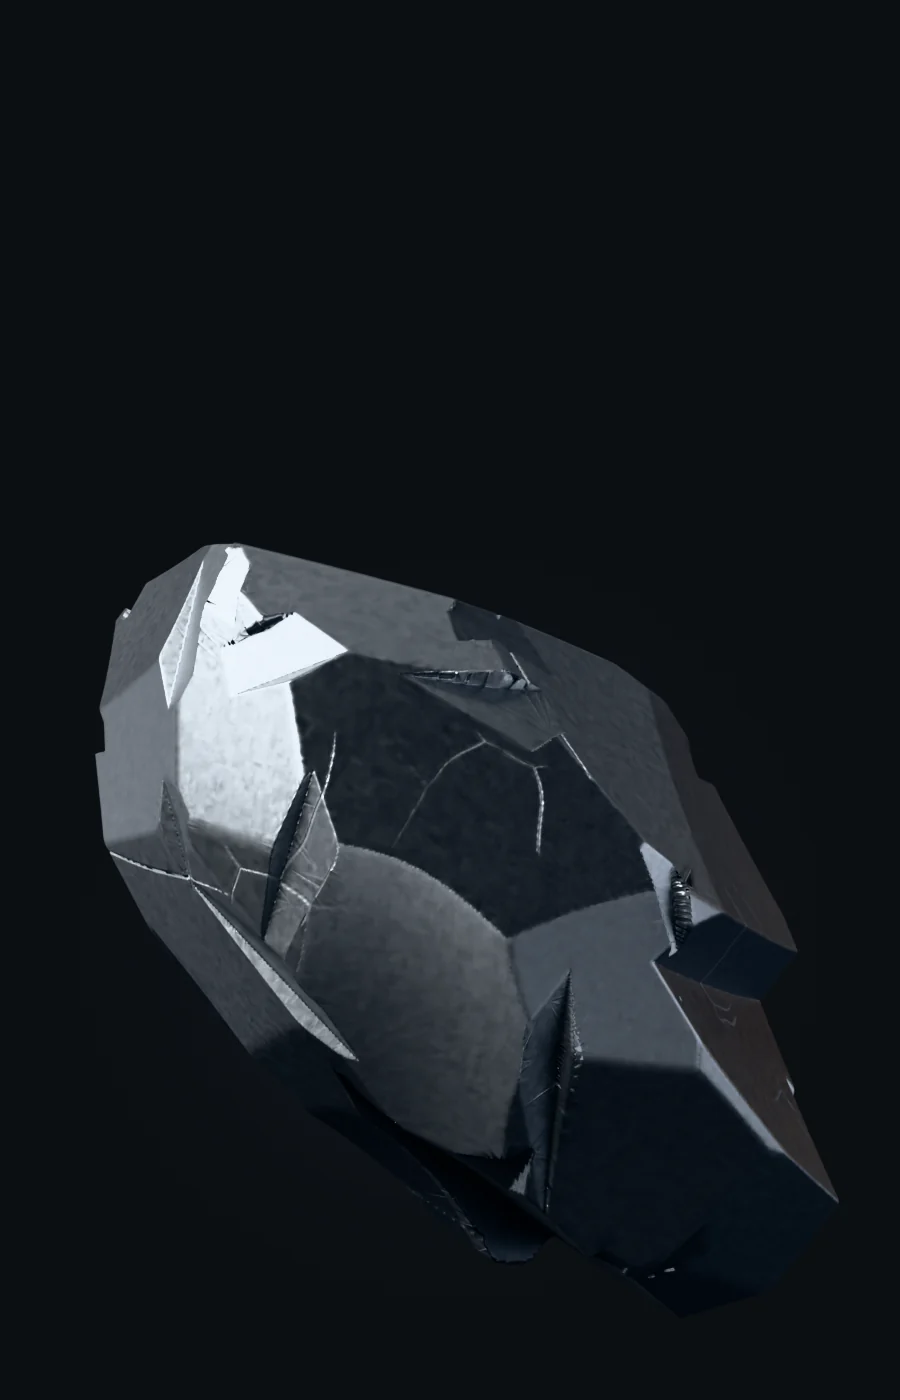
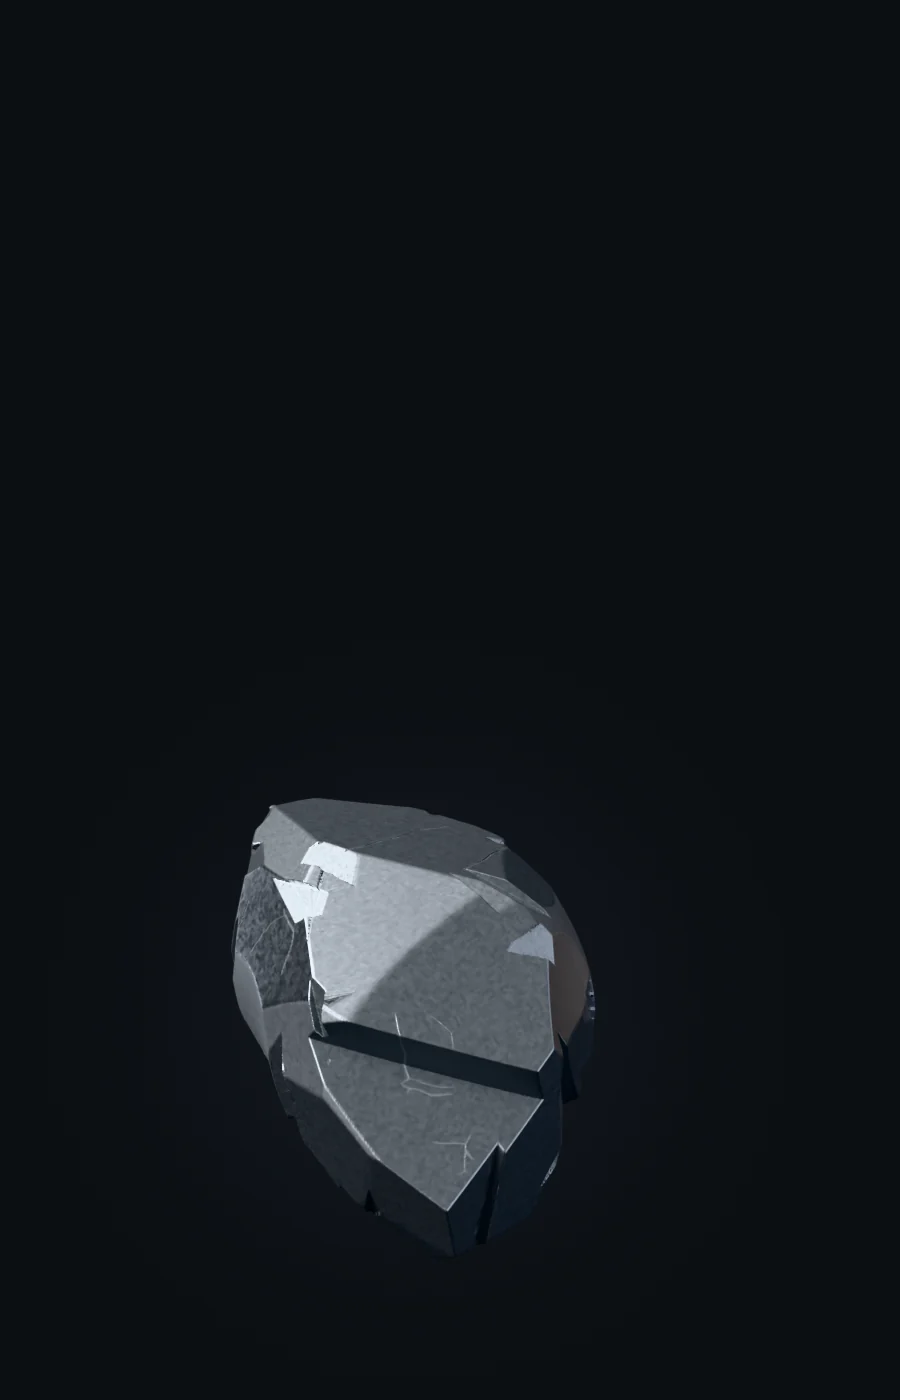
Hero pose 120 deg: broad fracture face towards the camera, reframe and re-render posters
The 180 deg pose showed the elongated end and the thin flake-scar walls.
Desktop camera pulled back so the chunk clears the element card; mobile
framing moved below the H1 and the call to action. The entry face keeps
its A2 light frame (entryFace.lightRotationY): the studio turns into it
during the approach, so the close-up no longer faces the key softbox
head-on. Material heading gets a soft graphite halo over the entry face.

Changed region(s): [[0.0933, 0.3686, 0.9333, 0.8907]]

diff --git a/src/scripts/scenes/hero.js b/src/scripts/scenes/hero.js
@@ -75,6 +75,7 @@ export async function createHero({ renderer, assets, textures, anisotropy, signa
   renderer.toneMappingExposure = config.exposure ?? 1;
 
   const rest = config.chunkRotationY ?? 0;
+  const lightYaw = config.entryFace?.lightRotationY ?? rest;
   const camera = new PerspectiveCamera(config.fov, 1, .01, 40);
   let hero = heroPose(config, 'desktop', 1.6);
   await renderer.compileAsync(scene, camera);
@@ -118,9 +119,10 @@ export async function createHero({ renderer, assets, textures, anisotropy, signa
       const s = entryPhases(state.hero).camera;
       const pose = cameraPose({ s, theta, hero, face, parallax: state.parallax });
       pivot.rotation.y = theta;
-      // During the final approach the studio turns with the chunk, so the close-up is lit the
-      // same way whatever angle the ambient turn had reached (the turn is at rest by then).
-      scene.environmentRotation.y = wrap(theta - rest) * smoothstep(.35, .85, s);
+      // During the final approach the studio turns into the entry face's own light frame
+      // (entryFace.lightRotationY), so the close-up is lit the same way whatever the hero pose and
+      // whatever angle the ambient turn had reached (the turn is at rest by then).
+      scene.environmentRotation.y = wrap(theta - lightYaw) * smoothstep(.35, .85, s);
       camera.position.set(...pose.position);
       camera.lookAt(...pose.target);
       renderer.render(scene, camera);
@@ -138,13 +140,14 @@ const wrap = a => a - 2 * Math.PI * Math.round(a / (2 * Math.PI));
 
 /**
  * End the approach slightly oblique: halfway between the face normal and the mirror direction
- * of the key softbox (in the chunk's rest frame), so the fracture face carries a soft specular
+ * of the key softbox (in the entry face's light frame), so the fracture face carries a soft specular
  * gradient instead of reflecting the dark studio behind the camera.
  */
 function approachDirection(normal) {
   const key = (config.lights ?? []).find(l => l.name === 'key') ?? (config.lights ?? []).find(l => l.type === 'key');
   if (!key) return normal;
-  const n = normalize(normal), l = normalize(rotateY(key.position, -(config.chunkRotationY ?? 0)));
+  const yaw = config.entryFace?.lightRotationY ?? config.chunkRotationY ?? 0;
+  const n = normalize(normal), l = normalize(rotateY(key.position, -yaw));
   const d = n[0] * l[0] + n[1] * l[1] + n[2] * l[2];
   if (d <= .05) return normal;
   const mirror = n.map((v, i) => 2 * d * v - l[i]);

diff --git a/src/styles.css b/src/styles.css
@@ -28,15 +28,18 @@ html[data-renderer=webgl] #scene-canvas{opacity:var(--dip,1)}
    cropped like the poster's object-fit:cover, so the handover does not shift the background. */
 .hero-glow{position:fixed;inset:0;z-index:0;pointer-events:none;container-type:size;overflow:hidden;opacity:var(--hero-copy,0)}
 .hero-glow:before{content:"";position:absolute;left:50%;top:50%;translate:-50% -50%;width:max(100cqw,160cqh);height:max(100cqh,62.5cqw);
-  background:radial-gradient(circle max(36cqw,57.6cqh) at 68.5% 50%,#5a789629 0,#5a78961a 20%,#5a78960f 40%,#5a789607 60%,#5a789602 80%,#5a789600 100%)}
+  background:radial-gradient(circle max(36cqw,57.6cqh) at 65% 52%,#5a789629 0,#5a78961a 20%,#5a78960f 40%,#5a789607 60%,#5a789602 80%,#5a789600 100%)}
 @media(max-width:759px){.hero-glow:before{width:max(100cqw,64.2857cqh);height:max(100cqh,155.556cqw);
-  background:radial-gradient(circle max(50cqw,32.143cqh) at 50% 66%,#5a789629 0,#5a78961a 20%,#5a78960f 40%,#5a789607 60%,#5a789602 80%,#5a789600 100%)}}
+  background:radial-gradient(circle max(50cqw,32.143cqh) at 46% 72%,#5a789629 0,#5a78961a 20%,#5a78960f 40%,#5a789607 60%,#5a789602 80%,#5a789600 100%)}}
 /* Hero poster: first paint, and the fallback for calm, no-JS, asset errors and context loss.
    It sits above the canvas and fades once the renderer has drawn the same frame underneath. */
 .hero-poster{position:absolute;inset:0;z-index:1;pointer-events:none}
 .hero-poster img{width:100%;height:100%;object-fit:cover}
 html[data-hero=live] .hero-poster{opacity:0;visibility:hidden;transition:opacity .3s linear,visibility 0s .3s}
 html[data-hero=live] .hero .stage>:not(.hero-poster){opacity:var(--hero-copy,1)}
+/* The material heading scrolls in over the bright entry face (hero progress ~.5-.84): a soft
+   graphite halo keeps it legible there; it is invisible on the dark stage. */
+html[data-renderer=webgl][data-chapter="0"] #materia .chapter-copy{text-shadow:0 1px 22px #0b0e12cc,0 0 3px #0b0e1299}
 
 .header{position:fixed;z-index:20;inset:0 0 auto;display:flex;justify-content:space-between;align-items:center;height:100px;padding:0 var(--pad);background:linear-gradient(var(--bg),#0b0e12c9 40%,transparent);gap:30px}
 .brand{display:flex;align-items:baseline;font-size:25px;letter-spacing:-1.2px;font-weight:600;white-space:nowrap;line-height:1}

diff --git a/tools/blender/studio.py b/tools/blender/studio.py
@@ -35,7 +35,14 @@ VIEW_TRANSFORM = "Khronos PBR Neutral"   # Three.js: THREE.NeutralToneMapping
 # so the runtime lifts the environment to match the poster's mean chunk luminance (measured with
 # tests/screens.py handover: 1.0 -> 63.6 vs 75.4, 1.25 -> 71.9, 1.45 -> 77.9). Highlights stay aligned.
 ENV_INTENSITY_THREE = 1.35
-CHUNK_ROTATION_Z = math.radians(180)     # hero pose at progress 0 (= Three.js rotation.y), picked with `poses`
+CHUNK_ROTATION_Z = math.radians(120)     # hero pose at progress 0 (= Three.js rotation.y), picked with `poses`
+# 120 deg (stage A3): broad grey fracture face with the long crack towards the camera, clear outline.
+# 180 deg showed the elongated end and its thin flake-scar walls (hair-like streaks, docs/qa/assets/NOTES.md).
+# The entry face (out/entry-face.json) was picked at 180 deg; at 120 it sits on the left flank and the
+# runtime camera arcs to it (src/scripts/story/camera-rig.js), so the 21 min chunk build is not needed.
+# The entry face is picked (silicon_chunk.entry_face) and lit for the close-up in this frame; kept apart
+# from the hero pose so a rebuild picks the same face. The runtime turns the studio to it on the approach.
+ENTRY_PICK = dict(rotation_z=math.radians(180), camera=(-0.42, -1.80, 0.16))
 
 # Softboxes: direction from the chunk (Blender coords, camera sits on -Y), distance, size (w, h),
 # linear colour, emission radiance. These planes are what studio-1k.hdr captures.
@@ -54,14 +61,15 @@ RIG = [
 WORLD_COLOR = (0.006, 0.007, 0.009)      # graphite surroundings seen in reflections
 WORLD_SKY = 4.0                           # upper hemisphere this many times brighter (dim ceiling)
 
-# Hero framing. fov is vertical. Object right of centre on desktop, low-centre on mobile.
+# Hero framing. fov is vertical. Object right of centre on desktop (clear of the element card),
+# low and slightly left on mobile, below the H1 and the call to action.
 CAMERAS = {
-    "desktop": dict(fov=42.0, res=(1600, 1000), position=(-0.42, -1.80, 0.16), target=(-0.42, 0.0, -0.02)),
-    "mobile": dict(fov=50.0, res=(900, 1400), position=(0.0, -2.05, 0.36), target=(0.0, 0.0, 0.30)),
+    "desktop": dict(fov=42.0, res=(1600, 1000), position=(-0.47, -2.50, 0.24), target=(-0.47, 0.0, 0.0)),
+    "mobile": dict(fov=50.0, res=(900, 1400), position=(0.08, -3.70, 0.84), target=(0.08, 0.0, 0.76)),
 }
 GLOW = {  # faint cool glow behind the object, composited in display space (reproduce in CSS)
-    "desktop": dict(center=(0.685, 0.50), radius=0.36, color="#5a7896", alpha=0.16),
-    "mobile": dict(center=(0.50, 0.66), radius=0.50, color="#5a7896", alpha=0.16),
+    "desktop": dict(center=(0.65, 0.52), radius=0.36, color="#5a7896", alpha=0.16),
+    "mobile": dict(center=(0.46, 0.72), radius=0.50, color="#5a7896", alpha=0.16),
 }
 
 
@@ -307,7 +315,9 @@ def cmd_camera():
         "outputColorSpace": "srgb",
         "chunkRotationY": round(CHUNK_ROTATION_Z, 5),
         "chunkRotationNote": "radians about the Three.js Y axis, applied to the GLB root at hero progress 0",
-        "entryFace": entry,
+        "entryFace": {**entry, "lightRotationY": round(ENTRY_PICK["rotation_z"], 5),
+                      "lightNote": "chunk rotation the face was picked and lit at; the runtime turns the studio "
+                                   "into this frame during the approach, so the close-up does not depend on the hero pose"},
         "units": "metres, glTF Y-up, chunk centred at origin, longest dimension 1.0",
     }
     CAMERA_JSON.write_text(json.dumps(data, indent=2) + "\n")

diff --git a/tools/blender/silicon_chunk.py b/tools/blender/silicon_chunk.py
@@ -775,9 +775,9 @@ def export_glb(ob, path):
 
 
 def entry_face(chunk, ids, p_src, centre, scale):
-    """Largest, flattest fracture face facing the desktop camera at the hero pose -> entry face."""
-    cam = np.array(studio.CAMERAS["desktop"]["position"])
-    rz = studio.CHUNK_ROTATION_Z
+    """Largest, flattest fracture face facing the camera in studio.ENTRY_PICK -> entry face."""
+    cam = np.array(studio.ENTRY_PICK["camera"])
+    rz = studio.ENTRY_PICK["rotation_z"]
     Rz = np.array([[math.cos(rz), -math.sin(rz), 0], [math.sin(rz), math.cos(rz), 0], [0, 0, 1]])
     best = None
     for i, pl in enumerate(chunk.planes):
